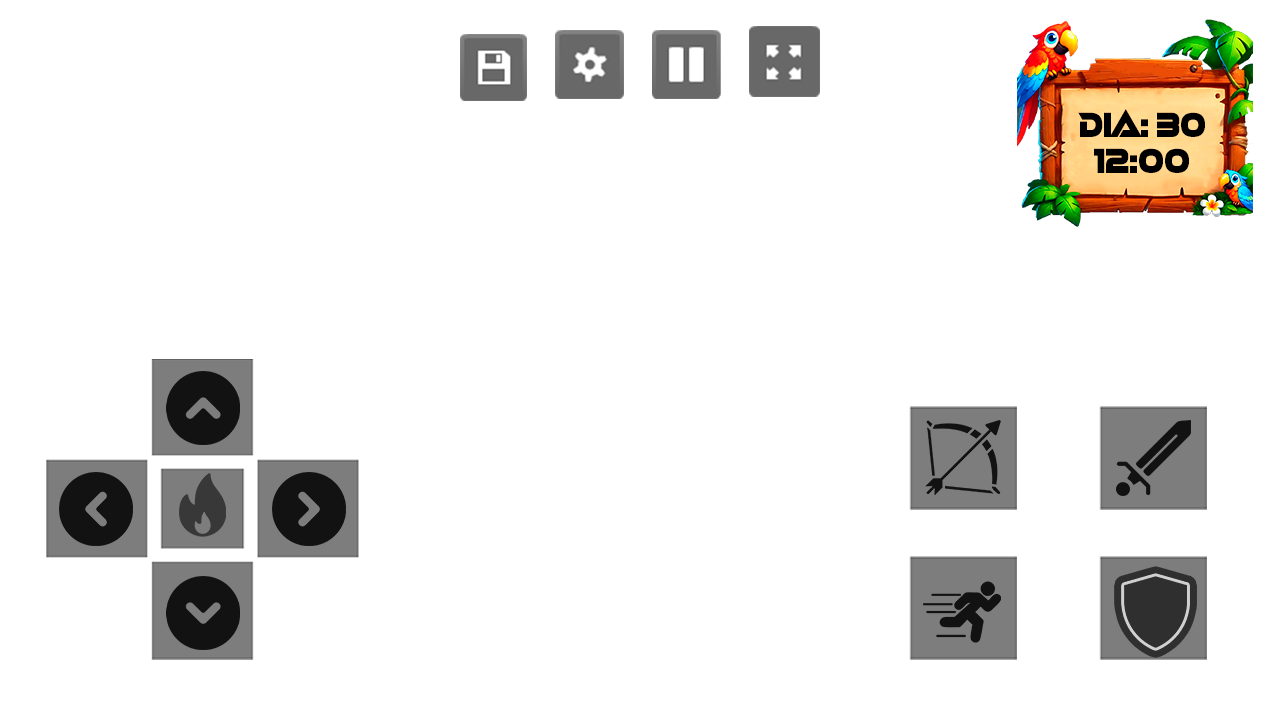
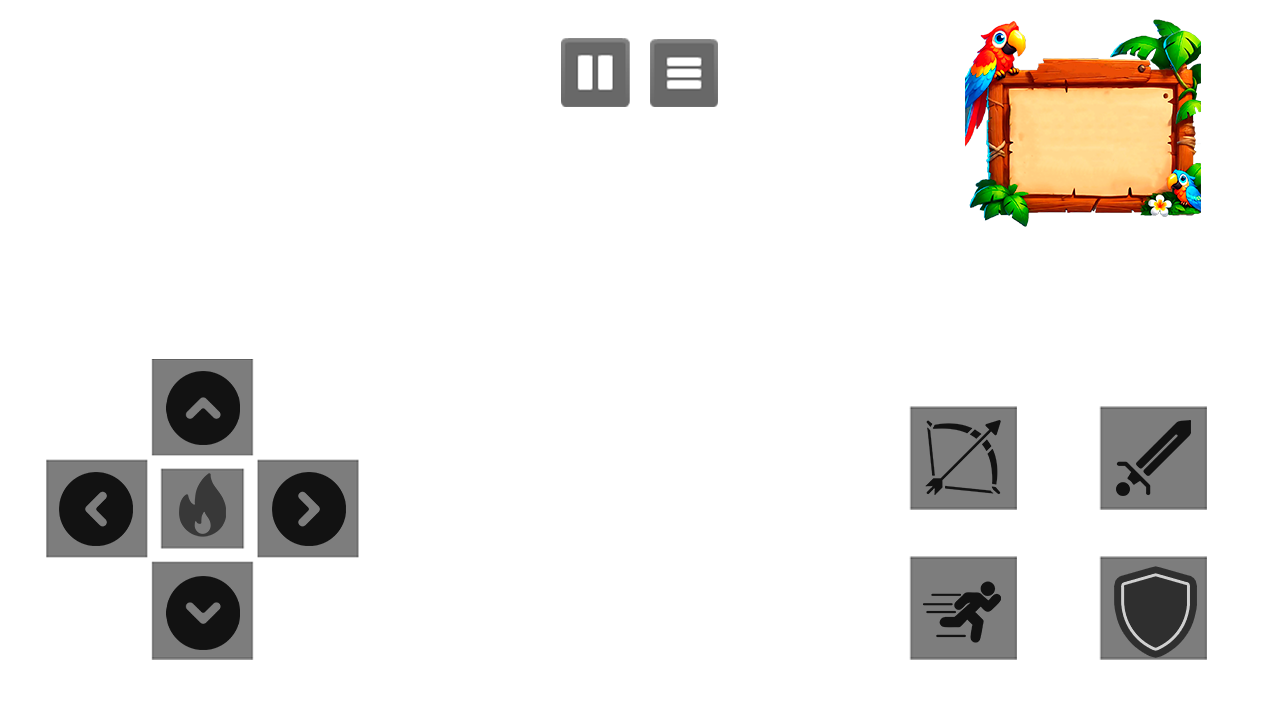
butoes

Changed region(s): [[0.75, 0.0306, 1.0, 0.3056], [0.3438, 0.0306, 0.6562, 0.1528]]

diff --git a/projeto1/js/plugins.js b/projeto1/js/plugins.js
@@ -30,7 +30,7 @@ var $plugins =
 {"name":"-HUD","status":false,"description":"","parameters":{}},
 {"name":"------------------------","status":false,"description":"----------------------------------------------------------------------------------","parameters":{}},
 {"name":"MOG_ActorHud","status":true,"description":"(v1.9) Adiciona uma Hud com os parâmetros do personagem.","parameters":{"Initial Visible":"true","Hud X-Axis":"0","Hud Y-Axis":"0","Smart Fade":"true","Auto Fade":"true",">> FACE ===================":"","Face Visible":"true","Face X-Axis":"55","Face Y-Axis":"100","Face Priority":"1",">> NAME ===================":"","Name Visible":"true","Name X-Axis":"5","Name Y-Axis":"20","Name Font Size":"20","Name Bold Size":"4","Name Font Italic":"false",">> HP ===================":"","HP Meter Visible":"true","HP Meter X-Axis":"143","HP Meter Y-Axis":"85","HP Meter Angle":"0","HP Meter Flow Anime":"true","HP Number Visible":"true","HP Number Align":"0","HP Number X-Axis":"270","HP Number Y-Axis":"70","MaxHP Number Visible":"false","MaxHP Number X-Axis":"185","MaxHP Number Y-Axis":"40","HP Icon Visible":"false","HP Icon Half Mode":"false","HP Icon Max Colors":"2","HP Icon Max Rows":"10","HP Icon Max Columns":"2","HP Icon X-Axis":"143","HP Icon Y-Axis":"85","HP Icon Space X":"0","HP Icon Space Y":"0","HP Icon Zoom Anime":"true",">> MP ===================":"","MP Meter Visible":"true","MP Meter X-Axis":"160","MP Meter Y-Axis":"115","MP Meter Angle":"0","MP Meter Flow Anime":"true","MP Number Visible":"true","MP Number Align":"0","MP Number X-Axis":"287","MP Number Y-Axis":"100","MaxMP Number Visible":"false","MaxMP Number X-Axis":"196","MaxMP Number Y-Axis":"78","MP Icon Visible":"false","MP Icon Half Mode":"false","MP Icon Max Colors":"2","MP Icon Max Rows":"10","MP Icon Max Columns":"2","MP Icon X-Axis":"143","MP Icon Y-Axis":"120","MP Icon Space X":"0","MP Icon Space Y":"0","MP Icon Zoom Anime":"true",">> TP ===================":"","TP Meter Visible":"true","TP Meter X-Axis":"143","TP Meter Y-Axis":"145","TP Meter Angle":"0","TP Meter Flow Anime":"true","TP Number Visible":"true","TP Number Align":"0","TP Number X-Axis":"270","TP Number Y-Axis":"130","MaxTP Number Visible":"false","MaxTP Number X-Axis":"185","MaxTP Number Y-Axis":"116","TP Icon Visible":"false","TP Icon Half Mode":"false","TP Icon Max Colors":"2","TP Icon Max Rows":"10","TP Icon Max Columns":"2","TP Icon X-Axis":"143","TP Icon Y-Axis":"50","TP Icon Space X":"0","TP Icon Space Y":"0","TP Icon Zoom Anime":"true",">> EXP ===================":"","EXP Meter Visible":"true","EXP Meter X-Axis":"127","EXP Meter Y-Axis":"173","EXP Meter Angle":"0","Level Number Visible":"true","Level Number Align":"1","Level Number X-Axis":"65","Level Number Y-Axis":"153",">> STATES ===================":"","States Visible":"true","States X-Axis":"5","States Y-Axis":"64"}},
-{"name":"MOG_GoldHud","status":true,"description":"(v1.6) Apresenta uma Hud com a quantidade de dinheiro.","parameters":{"Initial Visible":"true","Hud X-Axis":"555","Hud Y-Axis":"560","Number X-Axis":"240","Number Y-Axis":"24","Fade Limit":"60"}},
+{"name":"MOG_GoldHud","status":true,"description":"(v1.6) Apresenta uma Hud com a quantidade de dinheiro.","parameters":{"Initial Visible":"true","Hud X-Axis":"950","Hud Y-Axis":"230","Number X-Axis":"240","Number Y-Axis":"24","Fade Limit":"60"}},
 {"name":"------------------------","status":false,"description":"----------------------------------------------------------------------------------","parameters":{}},
 {"name":"-CHRONO","status":true,"description":"","parameters":{}},
 {"name":"------------------------","status":false,"description":"----------------------------------------------------------------------------------","parameters":{}},
@@ -39,7 +39,7 @@ var $plugins =
 {"name":"MOG_ChronoEngine","status":true,"description":"(v0.2b) Sistema avançado de interação de eventos.","parameters":{"Tool Map ID":"1","Battle Mode":"1","Battle Sensor Range":"3","Max Battle Members":"3","ATB Mode":"2","ATB Max":"1600","States Duration":"240","Diagonal Movement":"true","Touch Input Mode":"true","Attack Command":"true","Shield Command":"true","Skill Command":"true","Item Command":"true","Skill Menu Command":"true","Item Menu Command":"true","Attack Button":"ok","Shield Button":"d","Skill Button":"s","Item Button":"a","Dash Button":"shift","Skill Menu Button":"pagedown","Item Menu Button":"pageup","Escape Button":"shift","Shield Animation ID":"142","Cast Animation ID":"138","Level UP Animation ID":"143","Treasure SE":"Item3","Turn SE":"Ice1","Charging SE":"Up1","Charged SE":"Saint3","Action Cost SE":"Cancel1","Hookshot X-Axis Offset":"12","Hookshot Y-Axis Offset":"0","Cursor Actor X-Axis":"0","Cursor Actor Y-Axis":"-20","Cursor Actor Rotation":"0.02","Cursor Actor Blend Mode":"1","Cursor Actor Opacity":"150","Cursor X-Axis":"0","Cursor Y-Axis":"0","Cursor Float Mode":"true","Cursor FontSize":"18","Cursor Text X-Axis":"0","Cursor Text Y-Axis":"3","Cursor HP X-Axis":"0","Cursor HP Y-Axis":"32","Cursor HP Gauge X-Axis":"0","Cursor HP Gauge Y-Axis":"1","Command X-Axis":"0","Command Y-Axis":"0","Command Name X-Axis":"0","Command Name Y-Axis":"-7","Command Arrow X-Axis":"0","Command Arrow Y-Axis":"0","Phase X-axis":"130","Phase Y-axis":"300","Result X-axis":"200","Result Y-axis":"200","Result FontSize":"24","Result Exp X-axis":"110","Result Exp Y-axis":"80","Result Gold X-axis":"110","Result Gold Y-axis":"185","Escape X-axis":"60","Escape Y-axis":"170","Escape Gauge X-axis":"6","Escape Gauge Y-axis":"23"}},
 {"name":"MOG_ChronoATBHud","status":true,"description":"(v1.2) Apresenta a Hud de ATB para o Chrono Engine.","parameters":{"Hud Angle":"0","Hud X-Axis":"740","Hud Y-Axis":"45","Enemy X-Axis Offset":"16","Actor X-Axis Offset":"-16","Active X-Axis":"-3","Active Y-Axis":"30","Gauge Size":"160","Skill Visible":"true","Skill Zoom":"0.6","Skill X-Axis":"0","Skill Y-Axis":"0"}},
 {"name":"MOG_ChronoEnemyHP","status":true,"description":"(v1.2) Apresenta o HP do inimigo ao ataca-lo.","parameters":{"Duration":"90","Font Size":"20","Layout X-Axis":"0","Layout Y-Axis":"400","Meter X-Axis":"27","Meter Y-Axis":"29","Name X-Axis":"80","Name Y-Axis":"0"}},
-{"name":"MOG_ChronoToolHud","status":true,"description":"(v1.2) Apresenta as huds das ações no Chrono Engine.","parameters":{"Hud Start Visible":"true","Hud Font Size":"18","Hud Item Color":"0","Hud Mp Color":"3","Hud Tp Color":"5","Hud Icon X-Axis":"3","Hud Icon Y-Axis":"19","Hud Cost Number X-Axis":"0","Hud Cost Number Y-Axis":"38","Item Hud X-Axis":"350","Item Hud Y-Axis":"560","Skill Hud X-Axis":"392","Skill Hud Y-Axis":"560","Weapon Hud X-Axis":"434","Weapon Hud Y-Axis":"560","Shield Hud X-Axis":"480","Shield Hud Y-Axis":"560"}},
-{"name":"MOG_ChronoCT","status":true,"description":"(v1.1) Adiciona o sistema de CT.","parameters":{"Initial Visible":"true","Dash Cost":"true","Full SE":"","Smart Fade":"true","Slant Animation":"true","Hud X-Axis":"20","Hud Y-Axis":"650","Number X-Axis":"155","Number Y-Axis":"3"}},
+{"name":"MOG_ChronoToolHud","status":true,"description":"(v1.2) Apresenta as huds das ações no Chrono Engine.","parameters":{"Hud Start Visible":"true","Hud Font Size":"18","Hud Item Color":"0","Hud Mp Color":"3","Hud Tp Color":"5","Hud Icon X-Axis":"3","Hud Icon Y-Axis":"19","Hud Cost Number X-Axis":"0","Hud Cost Number Y-Axis":"38","Item Hud X-Axis":"541","Item Hud Y-Axis":"560","Skill Hud X-Axis":"583","Skill Hud Y-Axis":"560","Weapon Hud X-Axis":"625","Weapon Hud Y-Axis":"560","Shield Hud X-Axis":"671","Shield Hud Y-Axis":"560"}},
+{"name":"MOG_ChronoCT","status":true,"description":"(v1.1) Adiciona o sistema de CT.","parameters":{"Initial Visible":"true","Dash Cost":"true","Full SE":"","Smart Fade":"true","Slant Animation":"true","Hud X-Axis":"85","Hud Y-Axis":"30","Number X-Axis":"155","Number Y-Axis":"3"}},
 {"name":"Community_Basic","status":true,"description":"Plugin used to set basic parameters.","parameters":{"cacheLimit":"10","screenWidth":"1280","screenHeight":"720","changeWindowWidthTo":"","changeWindowHeightTo":"","renderingMode":"auto","alwaysDash":"off"}}
 ];

diff --git a/projeto1/js/rpg_objects.js b/projeto1/js/rpg_objects.js
@@ -39,8 +39,8 @@ Game_Temp.prototype.reservedCommonEvent = function() {
 };
 
 Game_Temp.prototype.setDestination = function(x, y) {
-    this._destinationX = x;
-    this._destinationY = y;
+   // this._destinationX = x;
+    //this._destinationY = y;
 };
 
 Game_Temp.prototype.clearDestination = function() {
